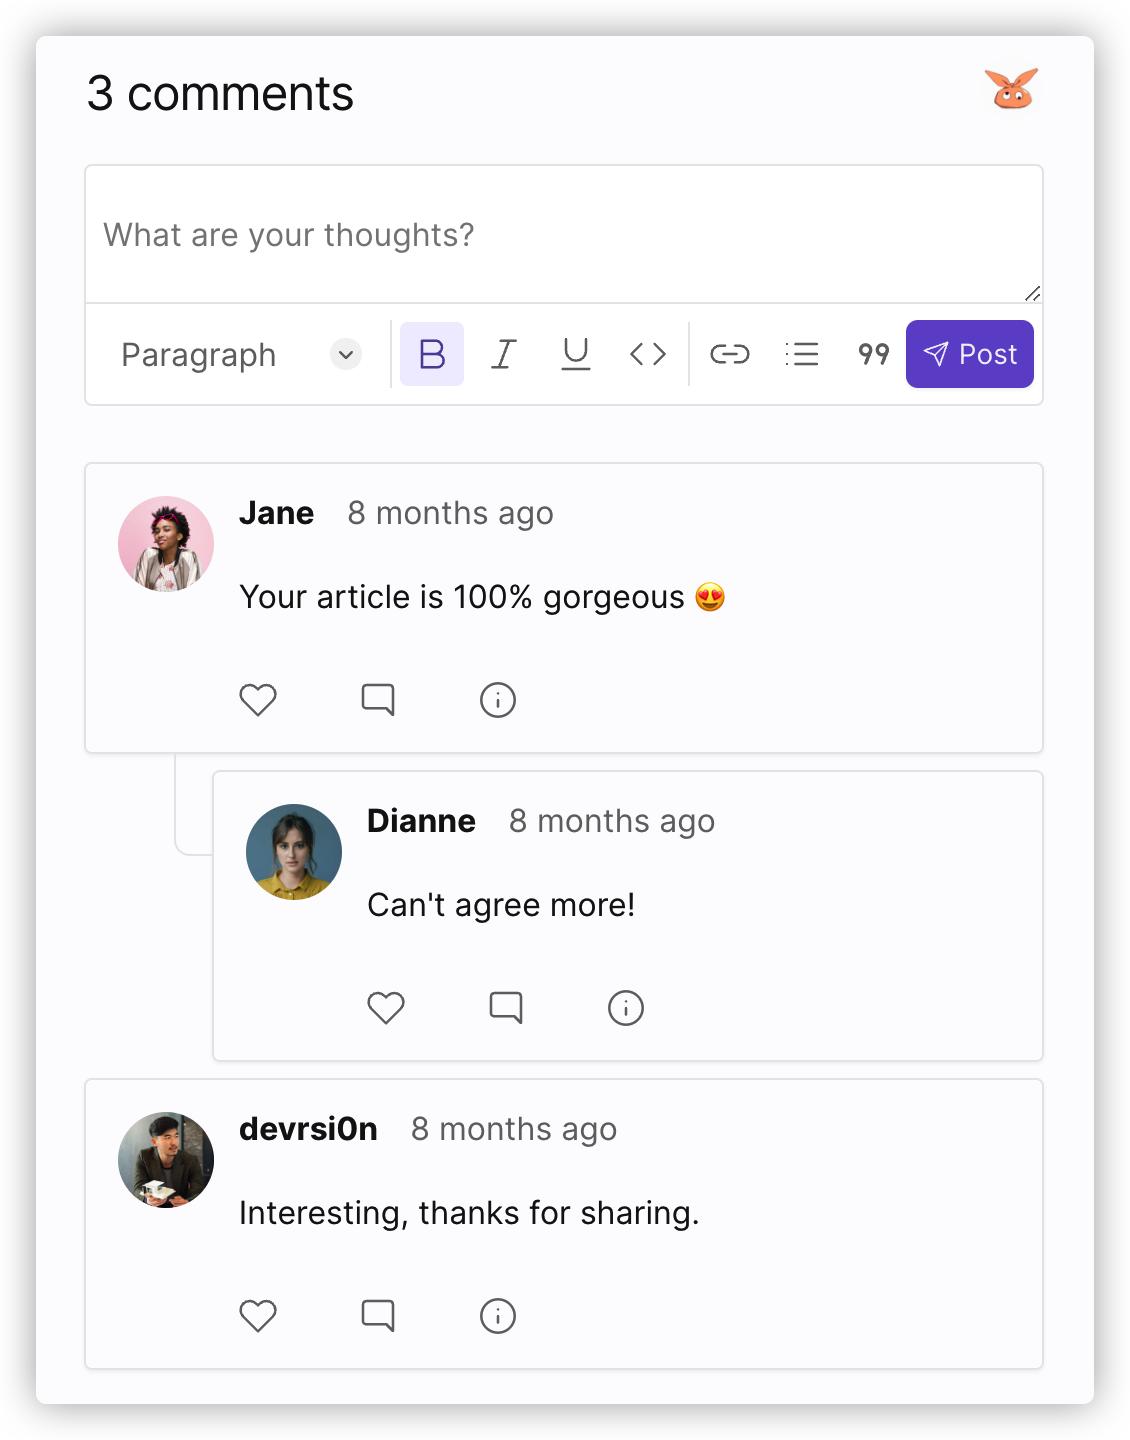
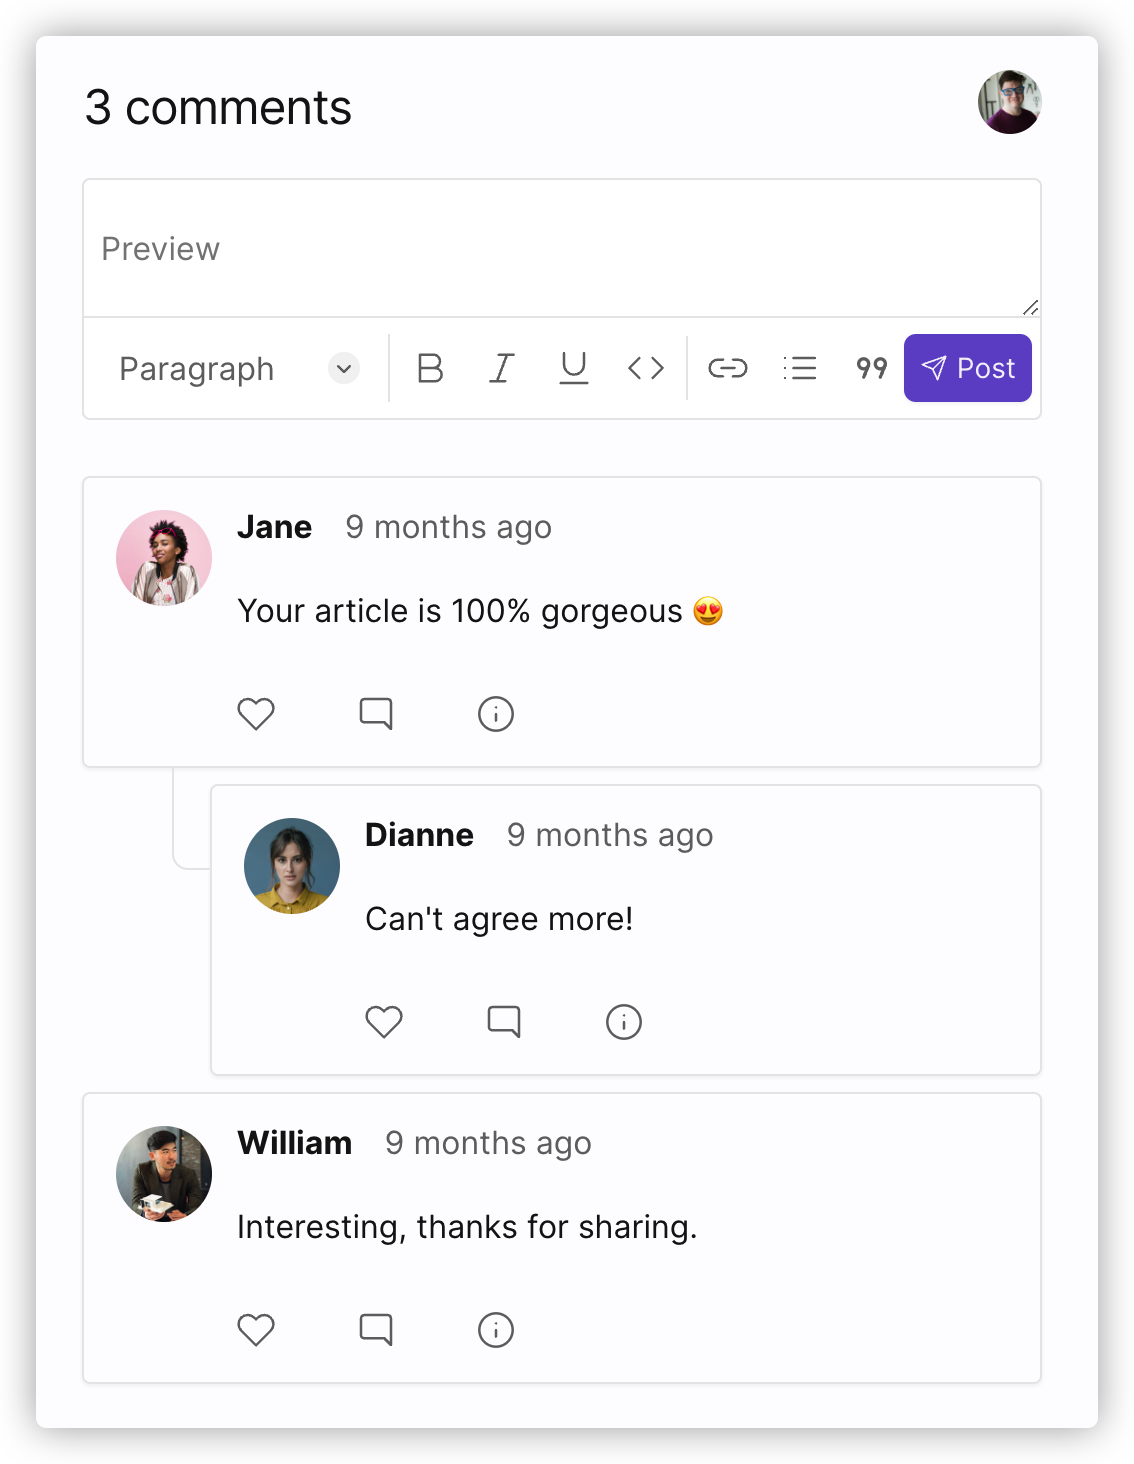
fix: preview image

diff --git a/src/pages/theme/[domain].tsx b/src/pages/theme/[domain].tsx
@@ -307,7 +307,7 @@ const comments = [
     user: {
       __typename: 'User',
       id: '634da1be-cc04-4719-908e-c642de76e292',
-      name: 'devrsi0n',
+      name: 'William',
       avatar: '/images/avatars/male-1.jpeg',
     },
     likes: [],
